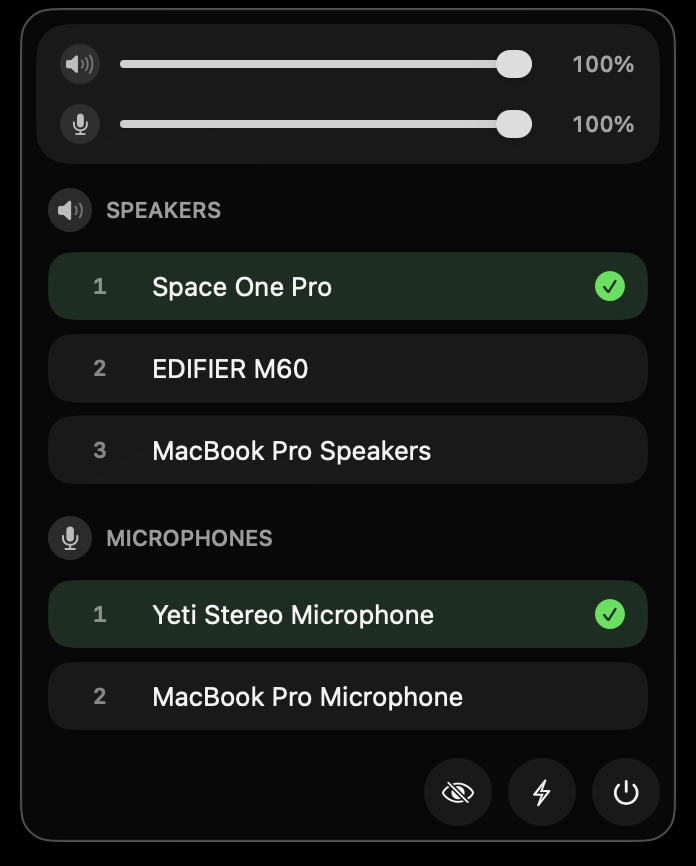
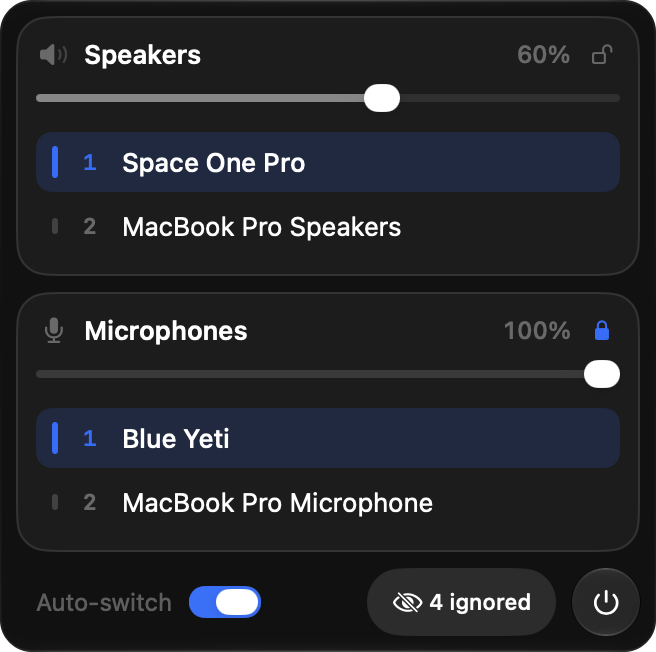
📸 docs: refresh README screenshots for 2.5.0
Show the redesigned popover in dark and light mode. screenshot.png keeps its name because the website links to it.

diff --git a/README.md b/README.md
@@ -12,7 +12,10 @@ Website: https://badalotti.dev/audio-priority
 ![Swift](https://img.shields.io/badge/Swift-6.2-orange)
 ![License](https://img.shields.io/badge/license-MIT-green)
 
-![Screenshot](screenshot.png?v=2.4.2)
+<p align="center">
+  <img src="screenshot.png?v=2.5.0" width="328" alt="AudioPriority in dark mode">
+  <img src="screenshot-light.png?v=2.5.0" width="328" alt="AudioPriority in light mode">
+</p>
 
 ## Features
 
